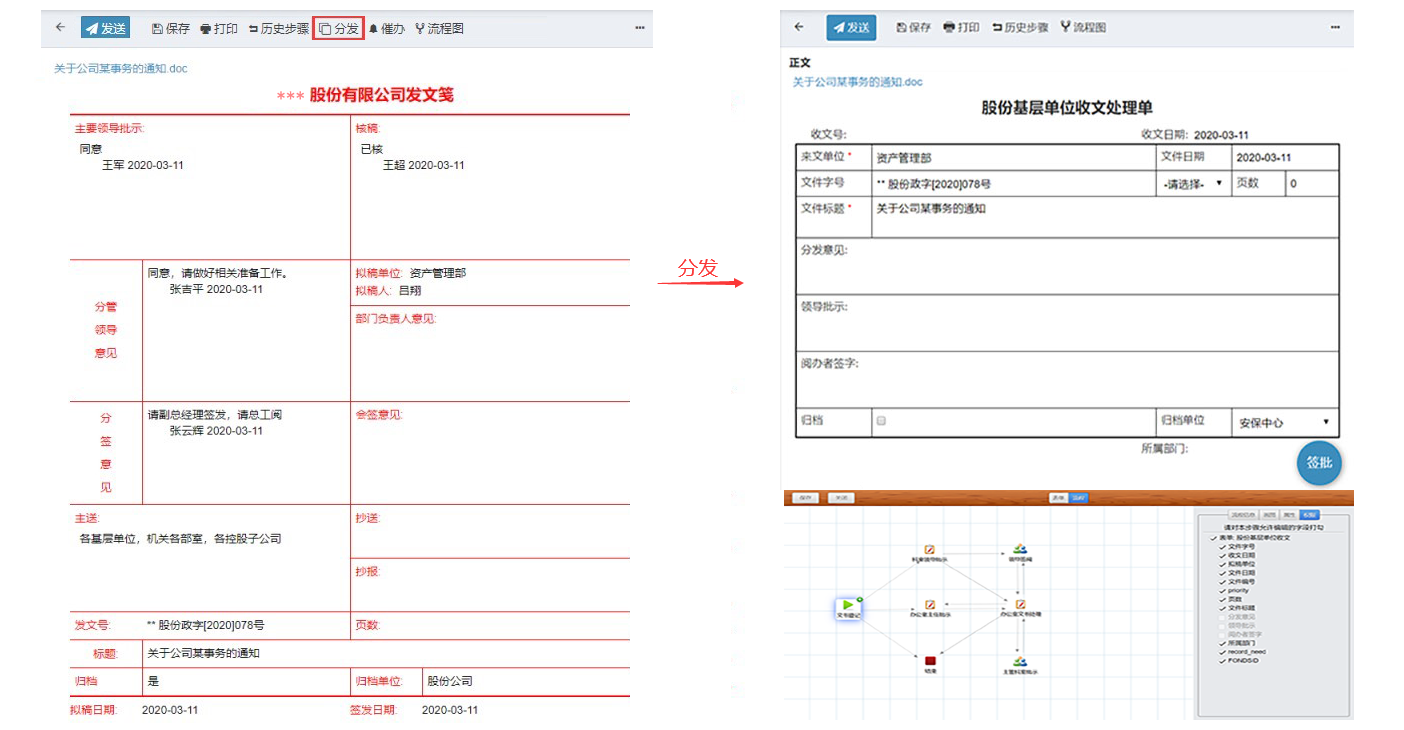
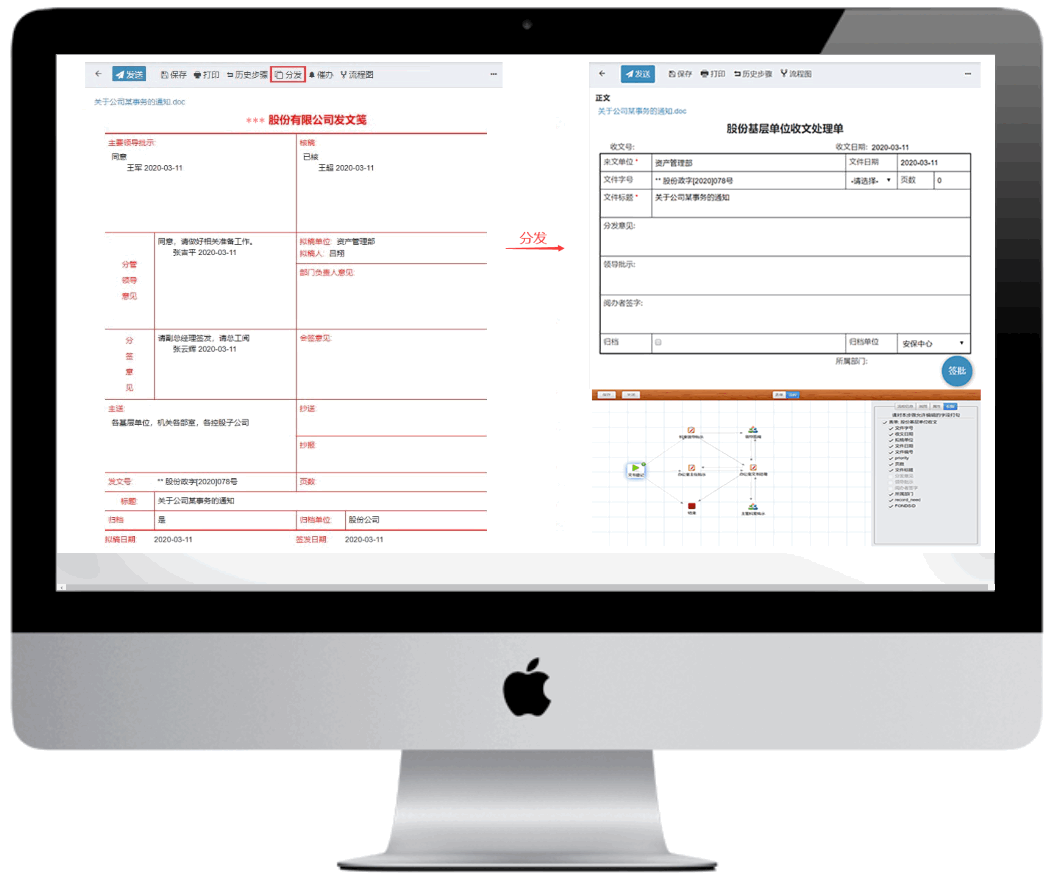
Create function.md and Update home.md

diff --git a/docs/workflow/function.md b/docs/workflow/function.md
@@ -1,0 +1,119 @@
+---
+title: 功能
+hide_table_of_contents: false
+background: /img/banner/clouds-large-desktop.png
+---
+
+## 表单设计
+
+### 高效表单设计工具
+
+可以快速配置企业应用表单，类EXCEL操作方式，简单、灵活、易上手、学习成本低。
+
+### 表单控件多元化
+
+针对表单组成的具体控件进行封装，在实现表单数据快速读取、灵活展现的同时，实现表单数据的多元化、集成化处理。
+
+### 纸质表单样式
+
+审批王显示的表单样式与传统纸质审批单样式相同，办公人员无需复杂操作培训即可快速上手使用。
+
+<a class="slds-button slds-button_brand slds-m-right_medium slds-var-p-vertical_xx-small" href="http://oss.steedos.com/videos/cn/%E7%BA%B8%E8%B4%A8%E8%A1%A8%E5%8D%95%E6%A0%B7%E5%BC%8F.mp4" target="_blank">
+视频演示
+</a>
+
+<p></p>
+
+![纸质表单](/assets/workflow/paper_mac_1.png)
+
+### 表单附件在线编辑
+
+对于Office类型的附件，无需下载上传，点击文件名即可在线编辑，编辑完成之后自动上传并生成新版本。
+
+<a class="slds-button slds-button_brand slds-m-right_medium slds-var-p-vertical_xx-small" href="http://oss.steedos.com/videos/cn/%E5%9C%A8%E7%BA%BF%E7%BC%96%E8%BE%91.mp4" target="_blank">
+视频演示
+</a>
+
+### 表单转发
+
+转发，可以实现表单内容的复制，实现流程之间的跳转。例如，之前提交过一个申请，该申请单的流程已经结束，但是您还是可以转发这个申请单，而转发后的申请单就是一个的新申请，其中相同的字段内容会复制到新的申请单上，这样可以节省用户填写表单的时间。
+
+<a class="slds-button slds-button_brand slds-m-right_medium slds-var-p-vertical_xx-small" href="http://oss.steedos.com/videos/cn/%E6%96%87%E4%BB%B6%E8%BD%AC%E5%8F%91.mp4" target="_blank">
+视频演示
+</a>
+
+### 表单分发
+
+常用于公司总部审批完之后的申请单，分发到下属子公司的某个流程，并自动拟写该流程的申请单。
+
+<a class="slds-button slds-button_brand slds-m-right_medium slds-var-p-vertical_xx-small" href="http://oss.steedos.com/videos/cn/%E6%96%87%E4%BB%B6%E5%88%86%E5%8F%91.mp4" target="_blank">
+视频演示
+</a>
+
+<p></p>
+
+![表单分发](/assets/workflow/distribute.png)
+
+## 系统集成
+
+### 数据集成
+
+- 基础数据集成
+
+提供现有的人员、组织集成配置功能，流程引擎平台可快速实现与第三方系统的人员、岗位、组织信息的集成整合，如eHR人事管理系统、基于LDAP协议的域控系统；在完成基础信息同步的同时，实现用户的单点登录和统一认证功能。
+
+- 业务数据集成
+
+主要是针对第三方业务系统中的业务主数据（MDM，如供应商、客户、产品和财务科目）以及日常业务数据的集成整合，可以快速构建核心业务基础数据的管控体系。
+
+### 流程应用集成
+
+在流程执行过程中，可以快速调用第三方异构系统的接口，将审批同意后的相关数据返写给第三方系统，即实现流程的流转集成整合；同时第三方系统也可以直接调用泛微流程平台，发起相关流程，即实现流程的触发集成整合。
+
+### 系统交互集成
+
+可以实现企业各类业务数据在不同异构系统间的交互集成，通过流程引擎连接所有业务接口，最终打通各个信息孤岛，形成企业信息一体化的管理体系。
+
+审批王提供标准的API接口，可以快速与第三方业务系统对接，包括：从第三方业务系统发起审批单，查询审批单状态，Webhook自动触发等。
+
+<a class="slds-button slds-button_brand slds-m-right_medium slds-var-p-vertical_xx-small" href="http://oss.steedos.com/videos/cn/%E5%BC%80%E6%94%BEAPI%E6%8E%A5%E5%8F%A3.mp4" target="_blank">
+视频演示
+</a>
+
+## 流程建模
+
+### 图形化建模工具
+
+可视化、图形化、拖拉式的建模操作，提升流程建模效率。
+
+<a class="slds-button slds-button_brand slds-m-right_medium slds-var-p-vertical_xx-small" href="http://oss.steedos.com/videos/cn/%E5%9B%BE%E5%BD%A2%E5%8C%96%E8%A1%A8%E5%8D%95%E4%B8%8E%E6%B5%81%E7%A8%8B%E8%AE%BE%E8%AE%A1.mp4" target="_blank">
+视频演示
+</a>
+
+<p></p>
+
+![表单设计](/assets/workflow/designer.png)
+
+### 支持流程操作者多种策略
+
+快速适应企业流程操作者的复杂情况，如可以指定用户、角色、岗位、部门（分部）、安全级别、职位上下级关系作为当前流程节点的操作者。
+
+### 完善的流程版本控制
+
+即使流程正在运行，您也可以随时修改流程，您对流程所做的任何修改都不会影响运行中和已结束的申请单。
+
+<a class="slds-button slds-button_brand slds-m-right_medium slds-var-p-vertical_xx-small" href="http://oss.steedos.com/videos/cn/%E6%B5%81%E7%A8%8B%E7%89%88%E6%9C%AC%E6%8E%A7%E5%88%B6.mp4" target="_blank">
+视频演示
+</a>
+
+## 报表分析
+
+### 流程效率统计
+
+系统提供了灵活的报表自定义功能，可以基于各种流程表单、从不同的维度进行自助定义出所需要的数据报表。可以是各类明细表或汇总表，也可以是二维数据表或其他特定的格式报表。
+
+除了表单反映的各种业务数据，系统还会实时监控用户的使用效率数据，并进行效率分析、生成效率报表。
+
+通过流程审批效率统计报表，可以精准定位使用频率最高的流程，在此基础上，企业流程管控部门可以重点关注这些流程，为后续流程的优化做好准备。
+
+![报表统计](/assets/workflow/efficiency_stats.png)

diff --git a/docs/workflow/home.md b/docs/workflow/home.md
@@ -42,9 +42,23 @@ background: /img/banner/service-overview-lg.png
 
 ## 工作流引擎平台技术特点
 
+### 性能卓越，并与业务系统无缝连接
+
 凭借优化的NodeJS核心搭配先进的AJAX技术，即使面对成千部门、上万人员的大型企业，流程审批的众多功能仍如行云流水般流畅。性能卓越，已成为诸多用户的共识。
 
 流程审批提供了符合国际标准的API接口，通过这些接口，可以与各业务系统实现信息共享、数据互通、工作协同。既可以从业务系统中实时抽取数据，或是从业务系统中发起审批，也可以在业务系统中查看实时审批进展，审批完成也能即时反馈业务系统。
+
+### 涵盖流程管理全过程，持续优化流程
+
+流程管理平台涵盖了流程设计、流程运行、管理维护、统计分析与流程优化等各类工具，构建最具效率的流程管理开发工具。
+
+可视化的流程设计系统，提供了灵活的开发平台、易用的辅助工具、完善的版本控制、自定义的报表引擎，帮助企业持续优化流程。
+
+### 全新专家智能核心，零代码设计
+
+企业流程审批系统从最早的纸质文件，到邮件代替，提升到角色架构、可程序化，现在，已进化到零代码、专家智能的新世代。相较于其他BPM系统，审批王提供了多达四十余种的专家智能签批规则。
+
+华炎流程引擎，更是内嵌了有华炎多年来为大型企业开发流程管理系统所累积的专家数据库，采用零代码设计，无须撰写一行程序，就能设计出高效率、高弹性的企业流程。
 
 ## 工作流引擎平台应用领域
 
@@ -173,22 +187,5 @@ background: /img/banner/service-overview-lg.png
     </div>
 </div>
 
-## 涵盖流程管理全过程，持续优化流程
-
-流程管理平台涵盖了流程设计、流程运行、管理维护、统计分析与流程优化等各类工具，构建最具效率的流程管理开发工具。
-
-可视化的流程设计系统，提供了灵活的开发平台、易用的辅助工具、完善的版本控制、自定义的报表引擎，帮助企业持续优化流程。
-
-## 全新专家智能核心，零代码设计
-
-企业流程审批系统从最早的纸质文件，到邮件代替，提升到角色架构、可程序化，现在，已进化到零代码、专家智能的新世代。相较于其他BPM系统，审批王提供了多达四十余种的专家智能签批规则。
-
-华炎流程引擎，更是内嵌了有华炎多年来为大型企业开发流程管理系统所累积的专家数据库，采用零代码设计，无须撰写一行程序，就能设计出高效率、高弹性的企业流程。
-
-## 自助业务数据统计，流程效率统计
-
-系统提供了灵活的报表自定义功能，可以基于各种流程表单、从不同的维度进行自助定义出所需要的数据报表。可以是各类明细表或汇总表，也可以是二维数据表或其他特定的格式报表。
-
-除了表单反映的各种业务数据，系统还会实时监控用户的使用效率数据，并进行效率分析、生成效率报表，
 
 
